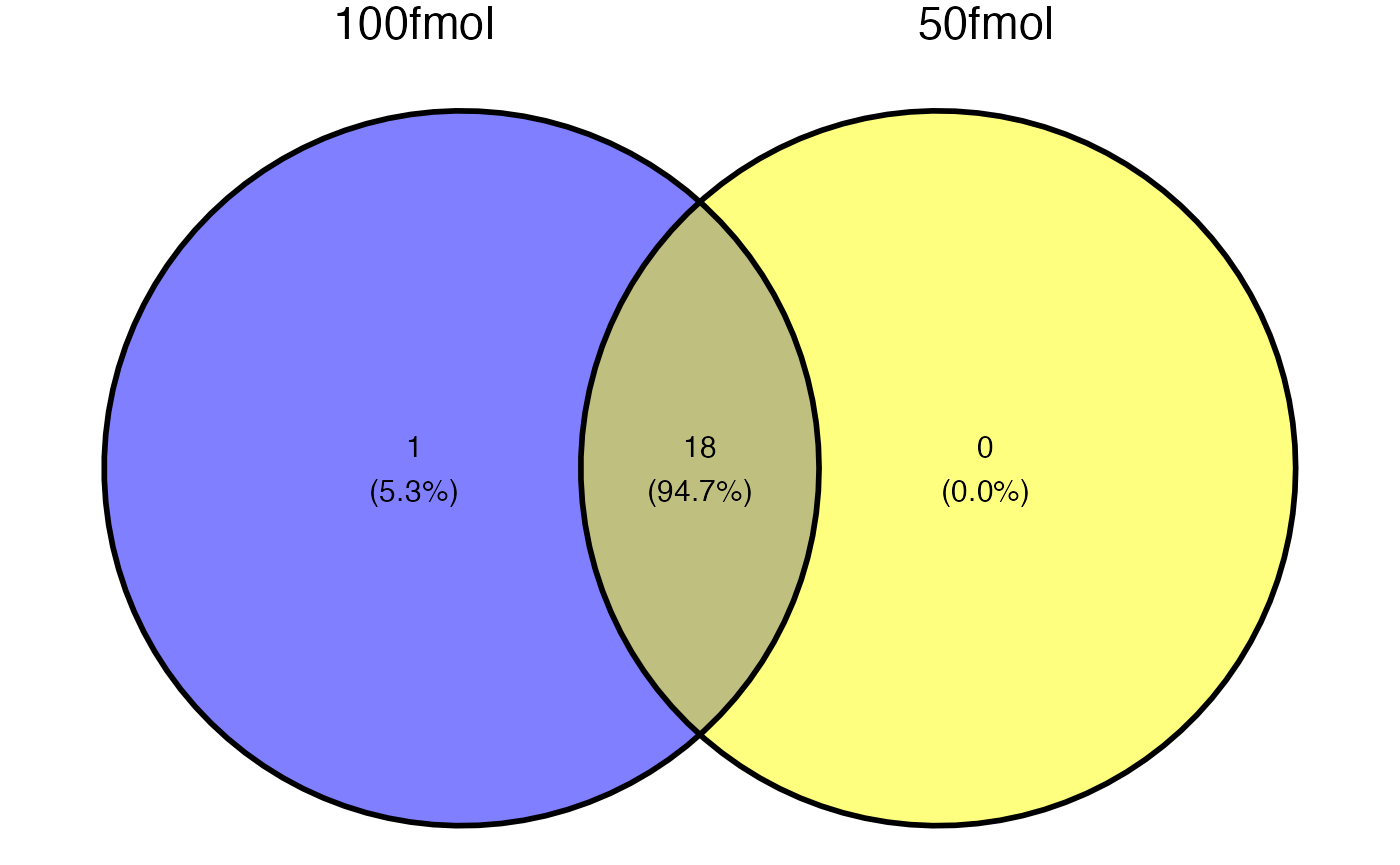
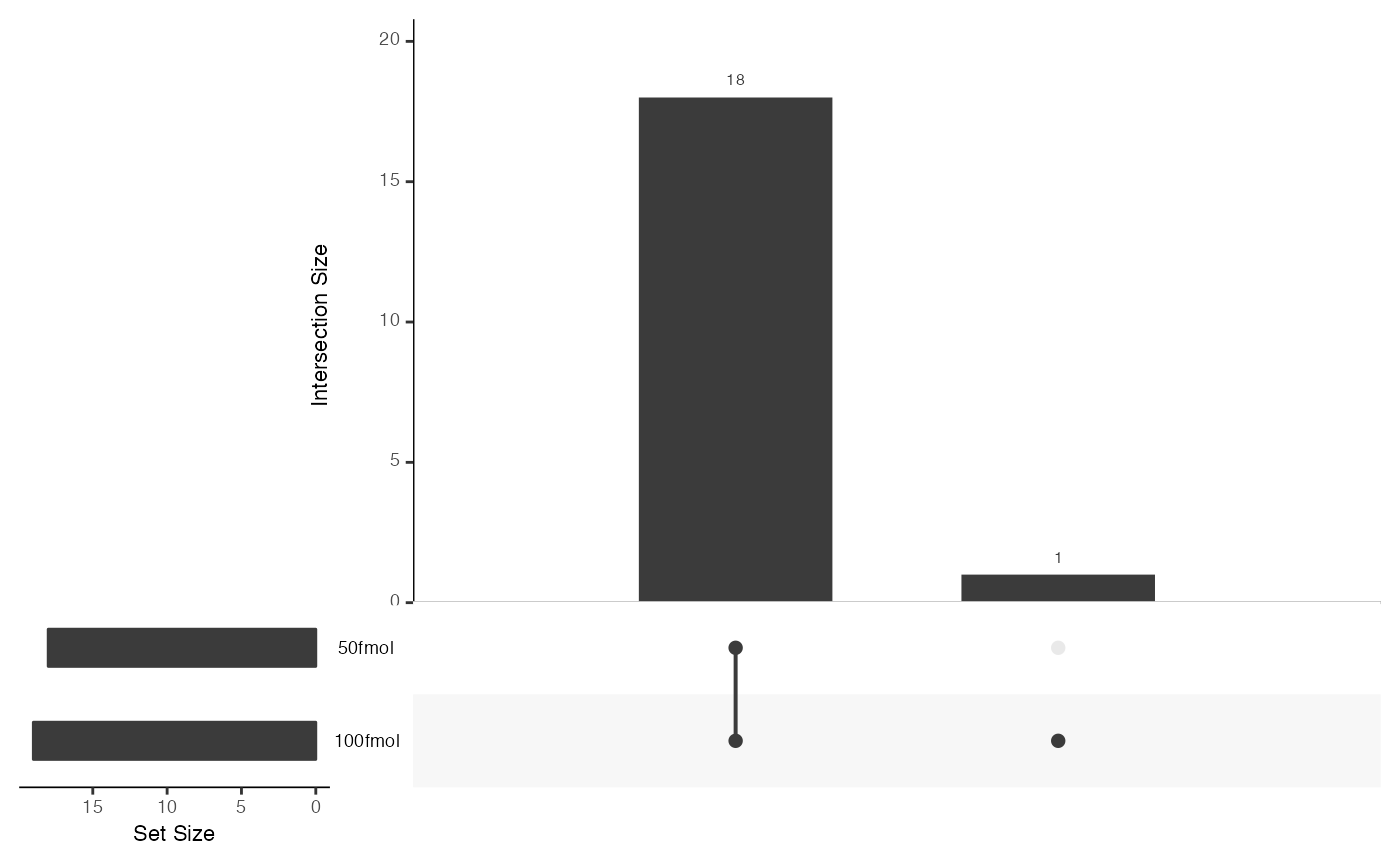
Upset

diff --git a/docs/articles/usage_template.html b/docs/articles/usage_template.html
@@ -3353,25 +3353,32 @@ the dendrogram.</p>
 <p><img src="usage_template_files/figure-html/unnamed-chunk-36-1.png" width="700"></p>
 </div>
 <div class="section level3">
-<h3 id="venn">Venn<a class="anchor" aria-label="anchor" href="#venn"></a>
+<h3 id="upset">Upset<a class="anchor" aria-label="anchor" href="#upset"></a>
 </h3>
 <div class="sourceCode" id="cb24"><pre class="downlit sourceCode r">
 <code class="sourceCode R"><span><span class="va">dataSort</span> <span class="op">&lt;-</span> <span class="fu"><a href="../reference/sortcondition.html">sortcondition</a></span><span class="op">(</span><span class="va">dataSet</span><span class="op">)</span></span>
-<span><span class="fu"><a href="../reference/visualize.html">visualize</a></span><span class="op">(</span><span class="va">dataSort</span>, graphType <span class="op">=</span> <span class="st">"Venn"</span>,</span>
+<span><span class="fu"><a href="../reference/visualize.html">visualize</a></span><span class="op">(</span><span class="va">dataSort</span>, graphType <span class="op">=</span> <span class="st">"Upset"</span><span class="op">)</span></span></code></pre></div>
+<p><img src="usage_template_files/figure-html/unnamed-chunk-37-1.png" width="700"></p>
+</div>
+<div class="section level3">
+<h3 id="venn">Venn<a class="anchor" aria-label="anchor" href="#venn"></a>
+</h3>
+<div class="sourceCode" id="cb25"><pre class="downlit sourceCode r">
+<code class="sourceCode R"><span><span class="fu"><a href="../reference/visualize.html">visualize</a></span><span class="op">(</span><span class="va">dataSort</span>, graphType <span class="op">=</span> <span class="st">"Venn"</span>,</span>
 <span>          show_percentage <span class="op">=</span> <span class="cn">TRUE</span>,</span>
 <span>          fill_color <span class="op">=</span> <span class="fu"><a href="https://rdrr.io/r/base/c.html" class="external-link">c</a></span><span class="op">(</span><span class="st">"blue"</span>, <span class="st">"yellow"</span>, <span class="st">"green"</span>, <span class="st">"red"</span><span class="op">)</span>,</span>
 <span>          show_universal <span class="op">=</span> <span class="cn">FALSE</span><span class="op">)</span></span></code></pre></div>
-<p><img src="usage_template_files/figure-html/unnamed-chunk-37-1.png" width="700"></p>
+<p><img src="usage_template_files/figure-html/unnamed-chunk-38-1.png" width="700"></p>
 </div>
 <div class="section level3">
 <h3 id="volcano-1">Volcano<a class="anchor" aria-label="anchor" href="#volcano-1"></a>
 </h3>
-<div class="sourceCode" id="cb25"><pre class="downlit sourceCode r">
+<div class="sourceCode" id="cb26"><pre class="downlit sourceCode r">
 <code class="sourceCode R"><span><span class="fu"><a href="../reference/visualize.html">visualize</a></span><span class="op">(</span><span class="va">anlys_vol</span>, graphType <span class="op">=</span> <span class="st">"volcano"</span>,</span>
 <span>          P.thres <span class="op">=</span> <span class="fl">0.05</span>, logF.thres <span class="op">=</span> <span class="fl">0.6</span><span class="op">)</span></span>
 <span><span class="co">#&gt; Warning: Removed 13 rows containing missing values</span></span>
 <span><span class="co">#&gt; (`geom_text_repel()`).</span></span></code></pre></div>
-<p><img src="usage_template_files/figure-html/unnamed-chunk-38-1.png" width="700"></p>
+<p><img src="usage_template_files/figure-html/unnamed-chunk-39-1.png" width="700"></p>
 </div>
 </div>
 <div class="section level2">
@@ -3380,7 +3387,7 @@ the dendrogram.</p>
 <p>To observe the data changes of the protein throughout the entire
 process, this is where the function <code>pullProteinPath</code> comes
 into play.</p>
-<div class="sourceCode" id="cb26"><pre class="downlit sourceCode r">
+<div class="sourceCode" id="cb27"><pre class="downlit sourceCode r">
 <code class="sourceCode R"><span><span class="va">ZC11B</span> <span class="op">&lt;-</span> <span class="fu"><a href="../reference/pullProteinPath.html">pullProteinPath</a></span><span class="op">(</span>proteinName <span class="op">=</span> <span class="st">"ZC11B_HUMAN"</span>,</span>
 <span>                         dataSetList <span class="op">=</span> <span class="fu"><a href="https://rdrr.io/r/base/list.html" class="external-link">list</a></span><span class="op">(</span>Initial <span class="op">=</span> <span class="va">dataSet</span>,</span>
 <span>                                            Transformed <span class="op">=</span> <span class="va">dataTran</span>,</span>

diff --git a/docs/reference/visualize.html b/docs/reference/visualize.html
@@ -95,6 +95,7 @@ Current options are:</p><ol><li><p>"heatmap"</p></li>
 <li><p>"PCA_scree"</p></li>
 <li><p>"PCA_var"</p></li>
 <li><p>"t-test"</p></li>
+<li><p>"Upset"</p></li>
 <li><p>"Venn"</p></li>
 <li><p>"volcano"</p></li>
 </ol></dd>
